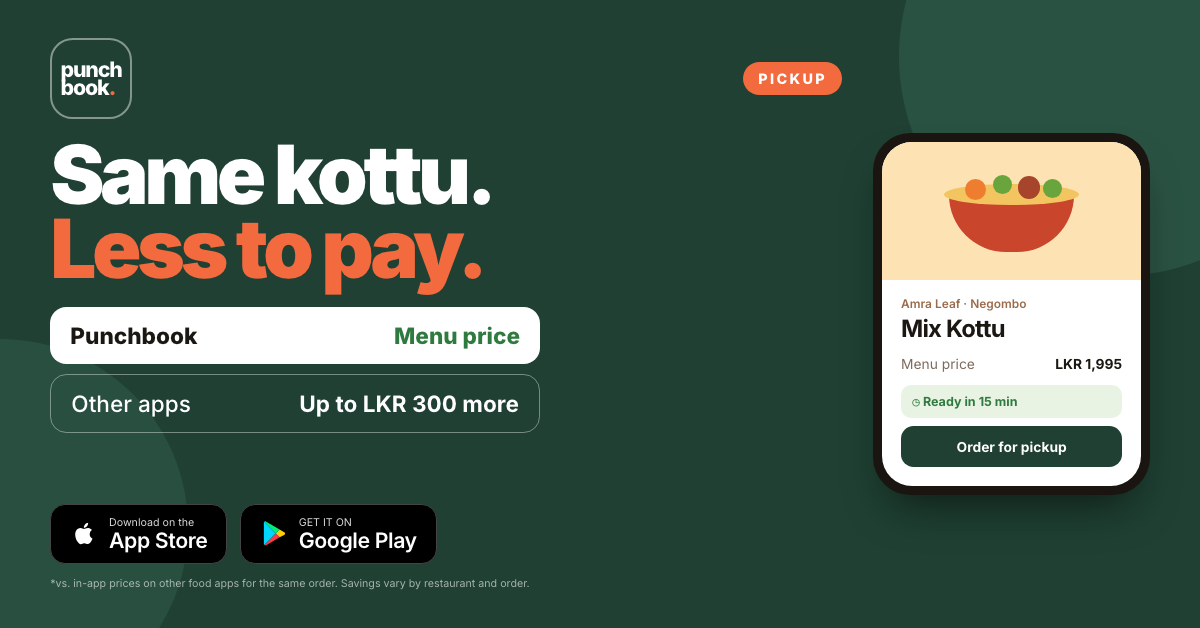
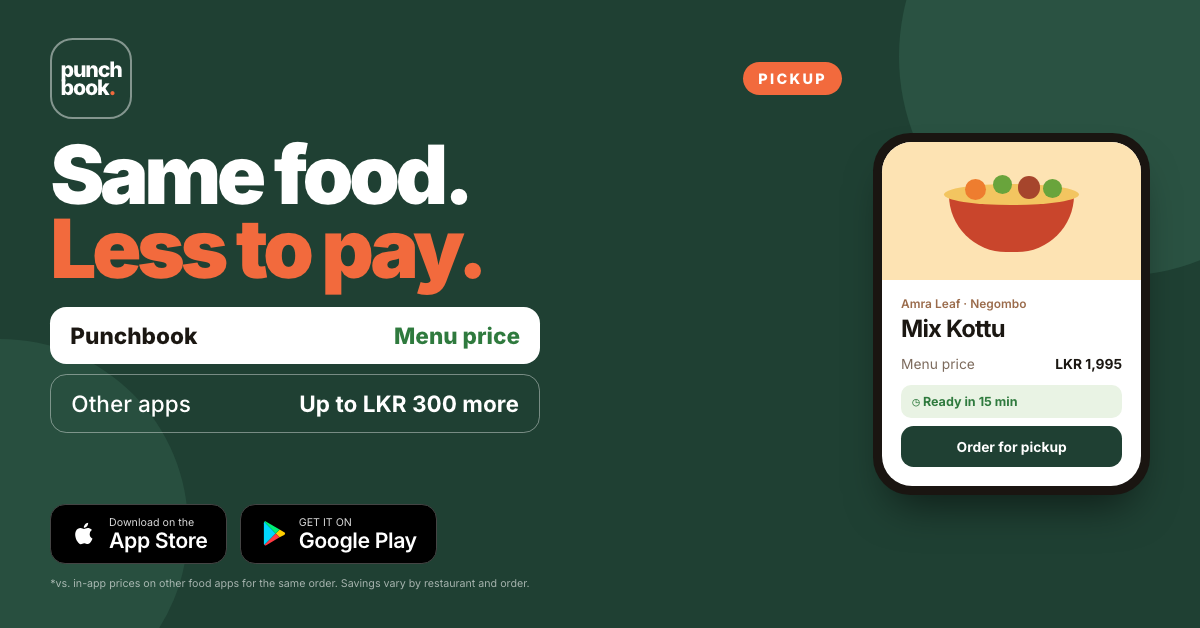
Ads: 'Same food. Less to pay.' and new 'Ready when you are.' headline

Changed region(s): [[0.2158, 0.2118, 0.4317, 0.3328]]

diff --git a/marketing/ads/src/ad.html b/marketing/ads/src/ad.html
@@ -71,8 +71,8 @@ const phone=`<div class="phone"><div class="screen"><div class="dish"><div class
 const ticket=`<div class="ticket"><div class="k">PICKUP CODE</div><div class="code">PB-7KQ2M</div><span class="st">✓ Ready at the counter</span></div>`;
 const C={
  '1':{h:`The Pick Up<br>Order <em>App.</em>`,body:`<p class="sub"><span class="hl">At restaurant prices.</span></p><p class="save">Save up to LKR 300<br>every order<sup>*</sup></p>`,side:phone,fine:1},
- '2':{h:`Same kottu.<br><em>Less to pay.</em>`,body:`<div class="cmp"><div class="us">Punchbook <span>Menu price</span></div><div class="them">Other apps <span>Up to LKR 300 more</span></div></div>`,side:phone,fine:1},
- '3':{h:`Skip<br>the <em>queue.</em>`,body:`<p class="sub">Order ahead. Walk in. Show your code.<br>Walk out with your food.</p>`,side:ticket,fine:0},
+ '2':{h:`Same food.<br><em>Less to pay.</em>`,body:`<div class="cmp"><div class="us">Punchbook <span>Menu price</span></div><div class="them">Other apps <span>Up to LKR 300 more</span></div></div>`,side:phone,fine:1},
+ '3':{h:`Ready when<br>you <em>are.</em>`,body:`<p class="sub">Order ahead. Walk in. Show your code.<br>Walk out with your food.</p>`,side:ticket,fine:0},
 };
 const d=C[c];let html;
 if(land){html=`<div class="col">${head}<h1>${d.h}</h1>${d.body}<div class="spacer"></div>${stores}${d.fine?fine:''}</div><div class="side">${d.side}</div>`}

diff --git a/marketing/ads/ad-copy.md b/marketing/ads/ad-copy.md
@@ -11,7 +11,7 @@ Headlines (30 characters max)
 2. Order Ahead, Skip the Queue
 3. At Restaurant Prices
 4. Save Up to LKR 300 an Order
-5. Same Kottu. Less to Pay.
+5. Same Food. Less to Pay.
 6. Pay the Menu Price
 7. Order Food for Pickup
 8. Ready in 15 Minutes
@@ -35,8 +35,8 @@ Images: `google/landscape-*.png` (1200 × 628), `google/square-*.png` (1200 × 1
 
 Short headlines (30 max)
 - The Pick Up Order App
-- Same Kottu. Less to Pay.
-- Skip the Queue
+- Same Food. Less to Pay.
+- Ready When You Are
 
 Long headline (90 max)
 - Order ahead and pick up at the counter, at restaurant prices. Save up to LKR 300 an order.
@@ -56,14 +56,14 @@ Caption 1 (with feed-1, The Pick Up Order App)
 > Other food apps add up to LKR 300 to every order. Punchbook doesn't.
 > Free on the App Store and Google Play. Link in bio.
 
-Caption 2 (with feed-2, Same kottu. Less to pay.)
-> Same kottu. Same restaurant. Up to LKR 300 less. 🍛
+Caption 2 (with feed-2, Same food. Less to pay.)
+> Same food. Same restaurant. Up to LKR 300 less. 🍛
 > Order on Punchbook and pay the menu price, not an app price.
 > Now live at Amra Leaf, Negombo.
 
-Caption 3 (with feed-3, Skip the queue)
+Caption 3 (with feed-3, Ready when you are)
 > Order ahead, walk in, show your code, walk out. ⏱
-> Your food's ready when you are. No queue, no waiting.
+> Your food's waiting for you, not the other way round. No queue.
 > Get Punchbook free. Link in bio.
 
 Call-to-action button: Install now (app install ads) or Learn more (to punchbook.online)
